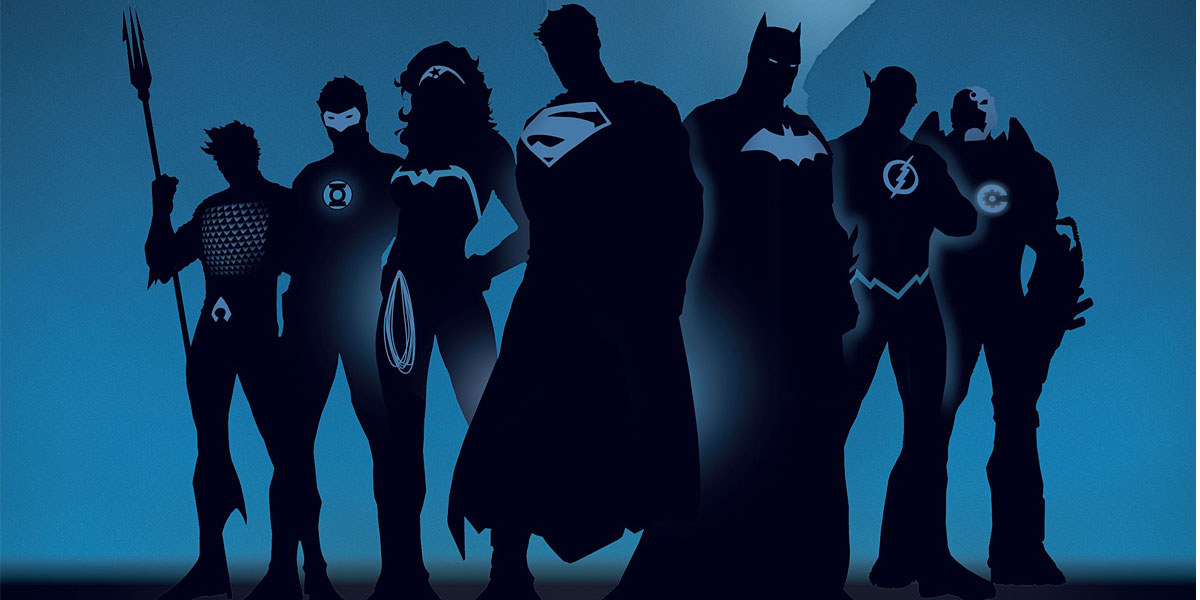
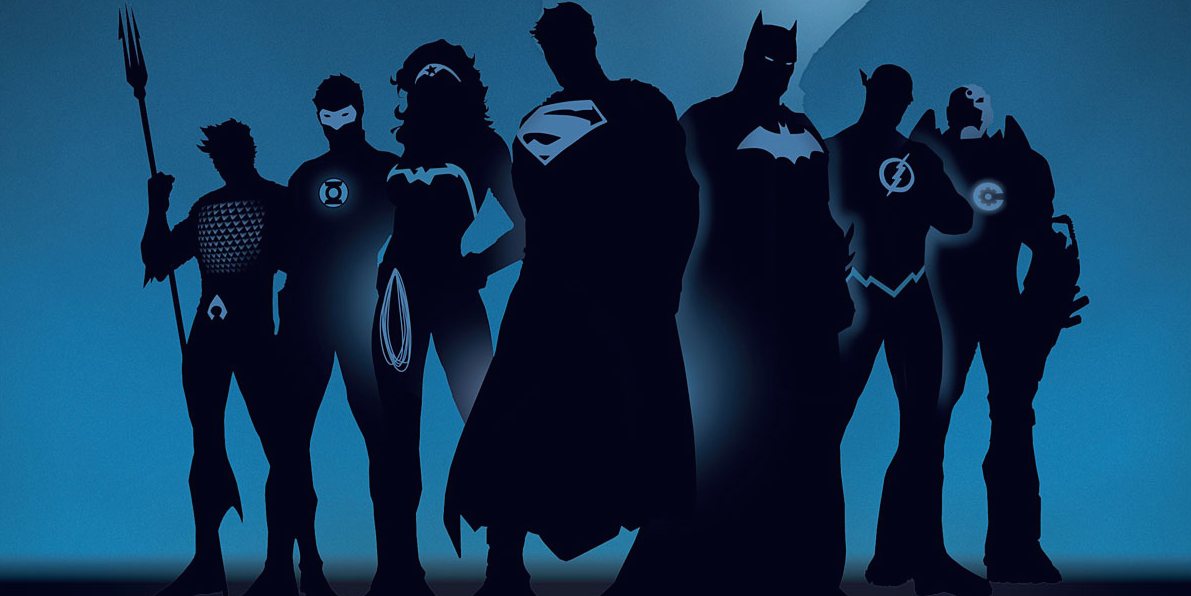
adjusted crop on image; trying just exporting block selector

diff --git a/index.js b/index.js
@@ -1,4 +1,1 @@
-// digestable bits for admin
 module.exports.blockSelector = require('./src/components/blocks/blockSelector.js');
-module.exports.HeroBlock = require('./src/components/blocks/HeroBlock.jsx');
-module.exports.ListBlock = require('./src/components/blocks/ListBlock.jsx');
